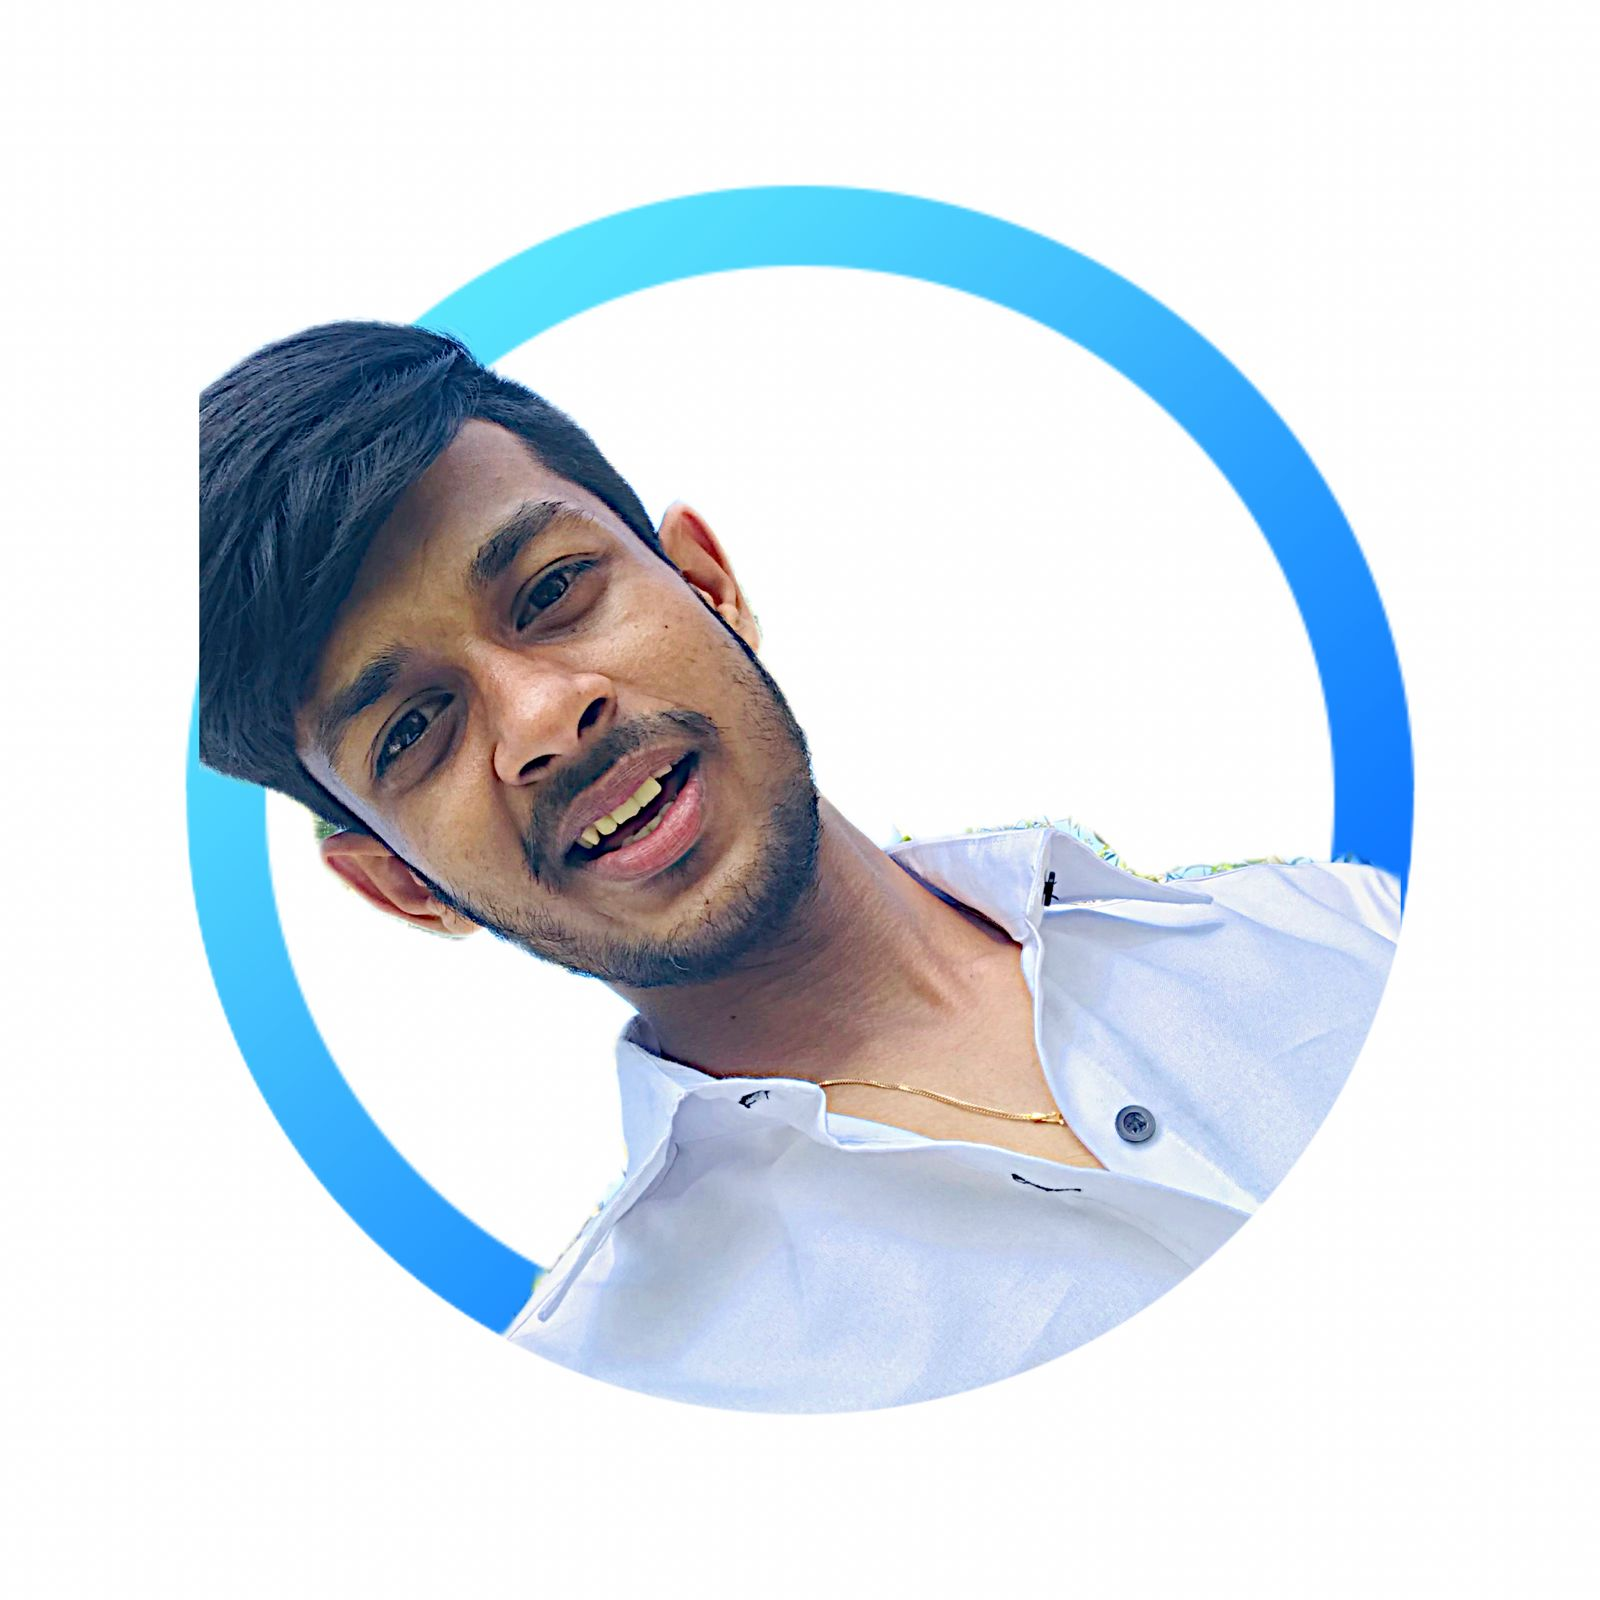
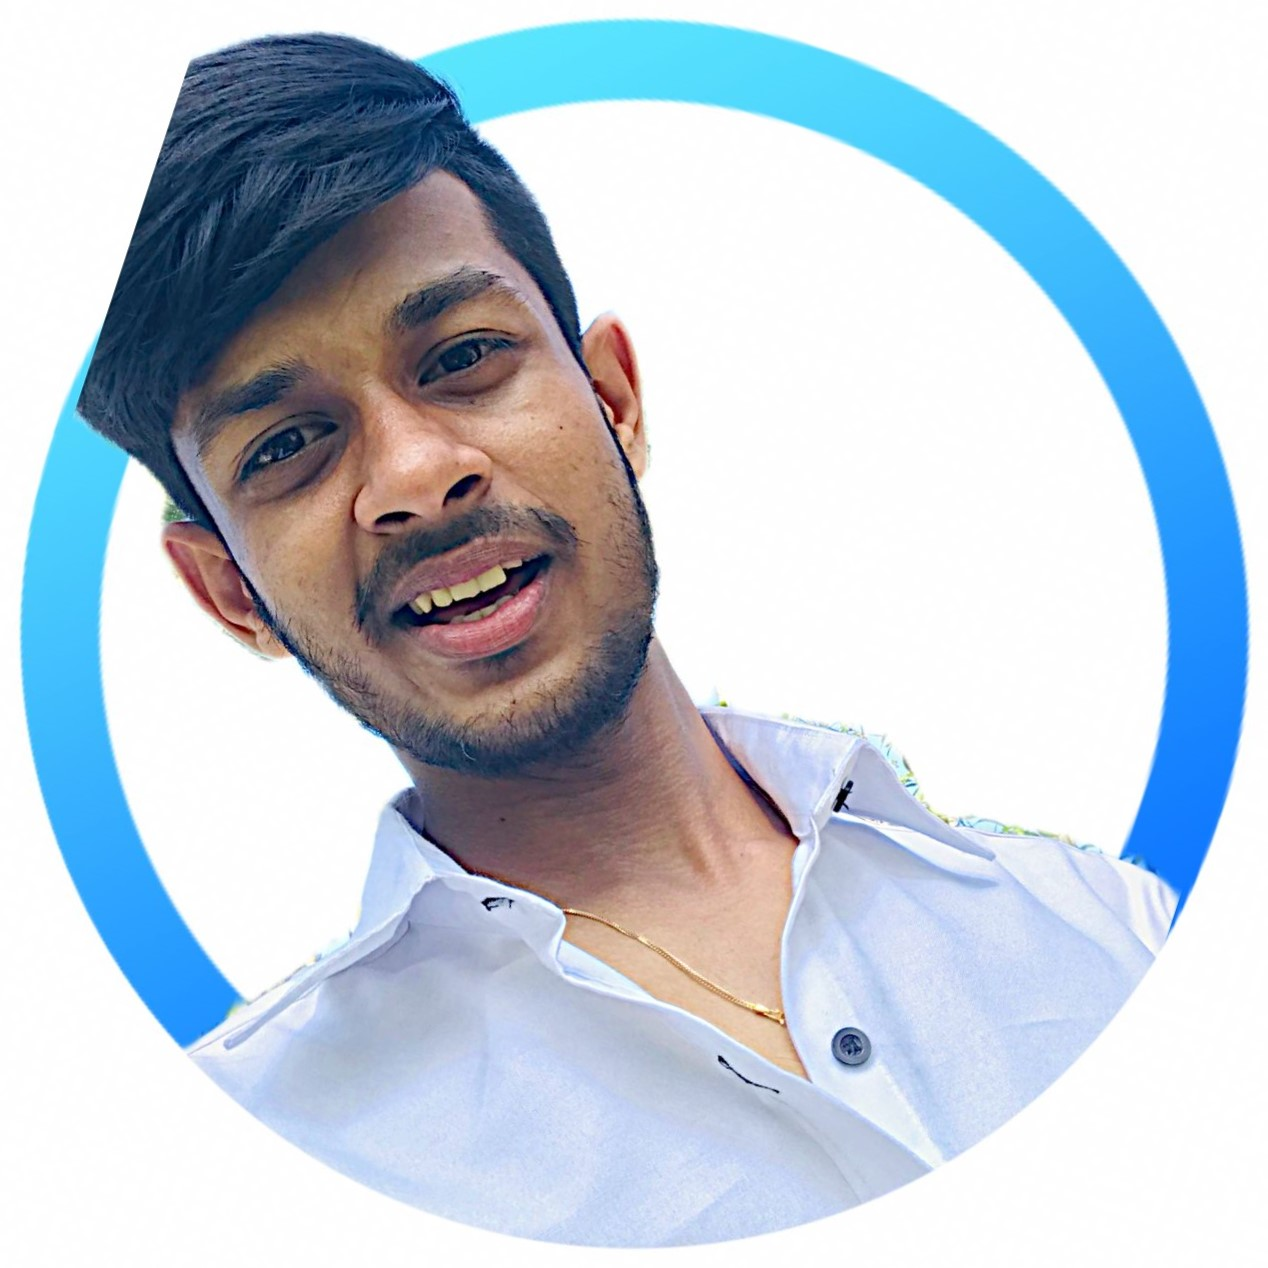
update home

diff --git a/Asserts/styles/home.css b/Asserts/styles/home.css
@@ -1,6 +1,98 @@
 #Home{
     display: flex;
-    background-color: blue;
+    background-color: white;
     width: 100vw;
     height: 800px;
+}
+
+#Home>section:first-child>div:first-child>h1{
+    color:black;
+    font-size:70px;
+    margin-left:120px;
+    margin-top:110px;
+}
+
+#Home>section:first-child>div:first-child>h2{
+    color:#59A6EE;
+    font-size:80px;
+    margin-left:390px;
+    margin-top:-90px;
+}
+
+#Home>section:first-child>div:first-child>h3{
+    color:#59A6EE;
+    font-size:80px;
+    margin-left:120px;
+
+}
+
+#Home>section:first-child>div:first-child>h4{
+    color:black;
+    font-size:25px;
+    margin-left:120px;
+    margin-top:30px;
+    margin-right:240px;
+
+}
+
+#Home>section:first-child>div:first-child>h5{
+    color:black;
+    font-size:25px;
+    margin-left:120px;
+    margin-top:120px;
+}
+
+#Home>section:nth-child(2)>img{
+     width: 400px;
+     height: 400px;
+     transform:rotate(10deg);
+     margin-top:110px;
+     margin-right:130px;
+}
+
+#Home>section:nth-child(3)>div:first-child{
+     position: absolute;
+     width: 60px;
+     height: 60px;
+     background: black;
+     margin-top:630px;
+     right:1330px;
+}
+#Home>section:nth-child(3)>div:first-child>img{
+    margin-left:5px;
+    margin-top:5px;
+    height: 50px;
+
+}
+
+#Home>section:nth-child(3)>div:nth-child(2){
+     position: absolute;
+     width: 60px;
+     height: 60px;
+     background: black;
+     margin-top:630px;
+     right:1230px;
+}
+
+#Home>section:nth-child(3)>div:nth-child(2)>img{
+    margin-left:5px;
+    margin-top:5px;
+    height: 50px;
+
+}
+
+#Home>section:nth-child(3)>div:nth-child(3){
+     position: absolute;
+     width: 60px;
+     height: 60px;
+     background: black;
+     margin-top:630px;
+     right:1130px;
+}
+
+#Home>section:nth-child(3)>div:nth-child(3)>img{
+    margin-left:6px;
+    margin-top:5px;
+    height: 50px;
+
 }

diff --git a/index.html b/index.html
@@ -51,26 +51,26 @@
 <!--Home Section-->
 <main id="Home">
     <section>
-        <h1>Hi,i'm </h1>
-        <h2>Chathunka Thushan</h2>
-        <h3> I am Chathunka Thunshan , and currently an
+        <div>
+        <h1>Hi , I'm </h1>
+        <h2>Chathunka</h2>
+        <h3> Thushan</h3>
+        <h4> I am Chathunka Thunshan , and currently an
             undergraduate software engineer. With a
             passion for technology and a curiosity that
             drives me , iam on an exciting journey to
             master the art of crafting innovative
             and user-friendly software solutions. 
-        </h3>
-        <h4>FIND WITH ME </h4>
-        
+        </h4>
+        <h5>FIND WITH ME </h5>
+        </div>
+
     </section>
+
     <section>
-        <img src="Asserts/Images/WhatsApp%20Image%202024-07-26%20at%2016.58.28_f0eac899.jpg" width="200" height="300">
+        <img src="Asserts/Images/WhatsApp%20Image%202024-07-26%20at%2016.58.28_f0eac899.jpg" >
     </section>
-    <section>
-        <div></div>
-        <div></div>
-        <div></div>
-    </section>
+
     <section>
         <div>
             <img src="Asserts/Images/icons8-facebook-50.png">
